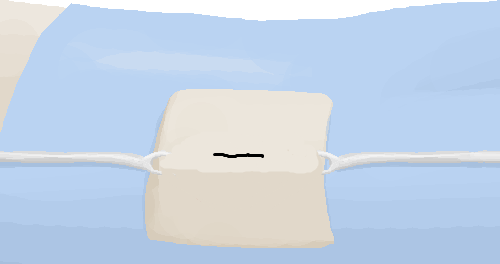
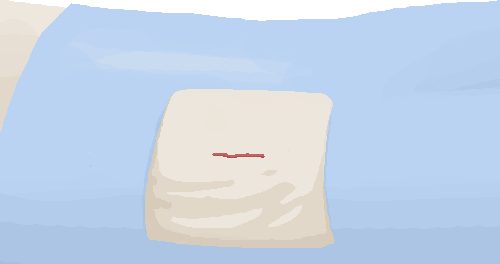
additional visual features for surgery minigame

Changed region(s): [[0.63, 0.5455, 1.0, 0.6667], [0.0, 0.5455, 0.33, 0.6667], [0.42, 0.5758, 0.54, 0.6061]]

diff --git a/src/stages/minigames/SurgeryStage.js b/src/stages/minigames/SurgeryStage.js
@@ -9,11 +9,12 @@ inherit(SurgeryStage, MinigameStage);
 SurgeryStage.prototype.preload = function() {
   MinigameStage.prototype.preload.call(this);
   // load graphics here
-  this.scalpelImage = loader.loadImage("assets/images/scalpel.png");
+  this.scalpelImage = loader.loadImage("assets/images/scalpel.png", 1, 2);
   this.bodyImage = loader.loadImage("assets/images/surgery_body.png");
-  this.holeImage = loader.loadImage("assets/images/organ.png");
+  this.holeImage = loader.loadImage("assets/images/surgery_cut.png");
   this.handImage = loader.loadImage("assets/images/darthand_back.png");
   this.thumbImage = loader.loadImage("assets/images/darthand_front.png");
+  this.bloodSplatImage = loader.loadImage("assets/images/bloodsplat.png", 1, 4);
 };
 
 SurgeryStage.prototype.prestart = function(payload) {
@@ -37,6 +38,8 @@ SurgeryStage.prototype.prestart = function(payload) {
   this.y = 0;
   this.yoff = 0;
   this.vy = 0;
+  this.scalpelFrame = 0;
+  this.bloodSplatFrame = 0;
 };
 
 SurgeryStage.prototype.update = function(timer) {
@@ -76,17 +79,22 @@ SurgeryStage.prototype.update = function(timer) {
       if (this.yoff > this.stopHeight * this.h) {
         // Start to cut
         this.cutStarted = true;
+        this.cutStartTime = this.time;
         this.cutStart = this.x;
         this.cutEnd = this.x;
       }
     } else {
       if (this.yoff > this.stopHeight * this.h) {
         // Cutting process
+        if ((this.time - this.cutStartTime) > 400) this.bloodSplatFrame = 2;
+        else if ((this.time - this.cutStartTime) > 200) this.bloodSplatFrame = 1;
         this.cutStart = Math.min(this.cutStart, this.x - 1);
         this.cutEnd = Math.max(this.cutEnd, this.x + 1);
       } else {
         // End cut
+        this.bloodSplatFrame = 3;
         this.cutEnded = true;
+        this.scalpelFrame = 1;
         this.evaluationTime = this.time + this.evaluationDelay;
       }
     }
@@ -119,7 +127,8 @@ SurgeryStage.prototype.render = function(ctx, timer) {
   if (this.cutStarted) {
     const holeScale = (this.cutEnd - this.cutStart) / this.holeImage.width;
     const holeScaleY = holeScale > 2 ? 1 : holeScale - 0.25 * Math.pow(holeScale, 2);
-    drawImageToScreen(ctx, this.holeImage, this.cutStart, holeHeight, 0, holeScale, holeScaleY, 0, 0.5);
+    drawFrame(ctx, this.bloodSplatImage, this.bloodSplatFrame, 145, Math.floor(holeHeight) + 3, 0, 1, 1, 0, 0.5);
+    drawImageToScreen(ctx, this.holeImage, this.cutStart, Math.floor(holeHeight), 0, holeScale, holeScaleY, 0, 0.5);
   }
   // Hand with scalpel
   ctx.save();
@@ -128,7 +137,7 @@ SurgeryStage.prototype.render = function(ctx, timer) {
   ctx.clip();
   drawImageToScreen(ctx, this.handImage, this.x, this.y, Math.PI / 2, 1, 1, 0.9, 0.1);
   const mirror = (this.x < this.lastX) ? 1 : -1;
-  drawImageToScreen(ctx, this.scalpelImage, this.x, this.y, Math.PI / 2 + this.scalpelAngle, 1, 1 * mirror, 0.2, 0.5);
+  drawFrame(ctx, this.scalpelImage, this.scalpelFrame, this.x, this.y, Math.PI / 2 + this.scalpelAngle, 1, 1 * mirror, 0.2, 0.5);
   drawImageToScreen(ctx, this.thumbImage, this.x, this.y, Math.PI / 2, 1, 1, 0.9, 0.1);
   ctx.restore();
   const h = 180;
